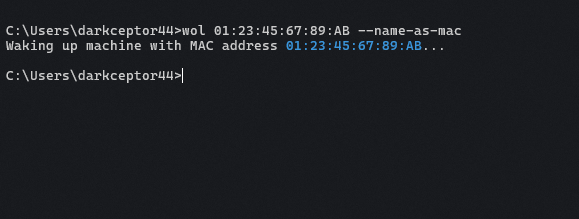
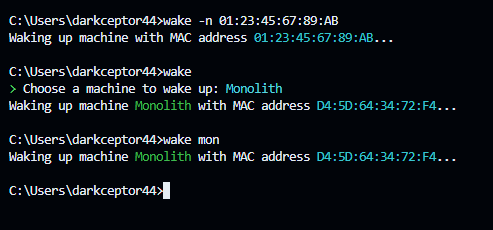
waker-cli: doc: update README and add rustdocs

diff --git a/waker-cli/src/main.rs b/waker-cli/src/main.rs
@@ -14,8 +14,95 @@
 // You should have received a copy of the GNU General Public License
 // along with this program. If not, see <http://www.gnu.org/licenses/>.
 
+//! # waker-cli
+//!
+//! A command-line application for sending Wake-on-LAN (WoL) magic packets over the network. It can be used to wake up a machine by its MAC address or by its alias, you can add machines through the CLI and save them to a config file, that way you don't have to memorize their MAC addresses.
+//!
+//! ## Installation
+//!
+//! You can install the application from:
+//!
+//! * Manually (after cloning the repo locally): `cargo install --path .`
+//!
+//! ## Usage
+//!
+//! ```bash
+//! $ wake --help
+//! Wake-On-LAN command line interface for Rust
+//!
+//! Usage: wake [OPTIONS] [NAME] [COMMAND]
+//!
+//! Commands:
+//!   add   Add machine to the config file
+//!   help  Print this message or the help of the given subcommand(s)
+//!
+//! Arguments:
+//!   [NAME]  Name of the machine to wake up, if the `-n` option is specified then this is the MAC address to send the magic packet to (must be in format `xx:xx:xx:xx:xx:xx`)
+//!
+//! Options:
+//!   -n, --name-as-mac              This tells the CLI to use the name as the MAC address to send the magic packet to
+//!   -b, --bcast-addr <BCAST_ADDR>  The broadcast address to send the magic packet to (must be `IP:PORT` format) [default: 255.255.255.255:9]  
+//!   -B, --bind-addr <BIND_ADDR>    The address to bind the UDP socket to (must be `IP:PORT` format) [default: 0.0.0.0:0]
+//!   -h, --help                     Print help
+//!   -V, --version                  Print version
+//! ```
+//!
+//! ## Benchmarks
+//!
+//! The CLI was benchmarked using [Hyperfine](https://github.com/sharkdp/hyperfine). The profiles used were:
+//!
+//! * Release
+//!
+//! ```toml
+//! [profile.release]
+//! lto = true
+//! codegen-units = 1
+//! opt-level = 3
+//! strip = true
+//! ```
+//!
+//! * Fast
+//!
+//! ```toml
+//! [profile.fast]
+//! inherits = "release"
+//! lto = false
+//! ```
+//!
+//! ### Windows
+//!
+//! * AMD64, 32GB RAM, Ryzen 7 3800X, Windows 10
+//!
+//! | Command | Mean [ms] | Min [ms] | Max [ms] | Relative |
+//! | ------- | --------- | -------- | -------- | -------- |
+//! | `wol 01:23:45:67:89:AB` ([swsnr/wol](https://crates.io/crates/wol) v0.3.1 + release) | 10.3 ± 0.7 | 9.1 | 13.0 | 1.00 |
+//! | `wol-rs 01:23:45:67:89:AB` ([fengyc/wol-rs](https://crates.io/crates/wol-rs) v1.1.0 + release) | 10.8 ± 1.5 | 9.5 | 27.9 | 1.05 ± 0.16 |
+//! | `wake -n 01:23:45:67:89:AB` (v0.1.0 + fast) | 16.3 ± 0.9 | 14.7 | 21.0 | 1.57 ± 0.13 |
+//! | `wake -n 01:23:45:67:89:AB` (v0.1.0 + release) | 16.3 ± 1.3 | 14.5 | 22.9 | 1.58 ± 0.16 |
+//!
+//! ### Linux
+//!
+//! * ARM64, 1GB RAM, Orange Pi Zero2, Debian 12
+//!
+//! | Command | Mean [ms] | Min [ms] | Max [ms] | Relative |
+//! | ------- | --------- | -------- | -------- | -------- |
+//! | `wol 01:23:45:67:89:AB` ([swsnr/wol](https://crates.io/crates/wol) v0.3.1 + release) | 2.3 ± 0.2 | 2.0 | 3.5 | 1.00 |
+//! | `wake -n 01:23:45:67:89:AB` (v0.1.0 + release) | 2.6 ± 0.2 | 2.2 | 3.3 | 1.12 ± 0.12 |
+//! | `wake -n 01:23:45:67:89:AB` (v0.1.0 + fast) | 3.0 ± 0.2 | 2.6 | 4.5 | 1.30 ± 0.14 |
+//! | `wol-rs 01:23:45:67:89:AB` ([fengyc/wol-rs](https://crates.io/crates/wol-rs) v1.1.0 + release) | 3.5 ± 0.2 | 3.2 | 4.2 | 1.55 ± 0.15 |
+//! | `wakeonlan 01:23:45:67:89:AB` ([jpoliv/wakeonlan](https://github.com/jpoliv/wakeonlan) v0.41-12.1) | 92.2 ± 6.0 | 89.9 | 124.2 | 40.31 ± 4.26 |
+//!
+//! ## MSRV
+//!
+//! The Minimum Supported Rust Version (MSRV) for `waker-cli` is **1.80**.
+//!
+//! ## License
+//!
+//! This project is licensed under the [GNU General Public License v3.0](https://www.gnu.org/licenses/gpl-3.0.en.html).
+
 #![forbid(unsafe_code)]
 #![warn(clippy::pedantic)]
+#![allow(clippy::doc_markdown)]
 
 mod types;
 mod utils;

diff --git a/waker-cli/README.md b/waker-cli/README.md
@@ -17,10 +17,10 @@ The Minimum Supported Rust Version (MSRV) for `waker-cli` is **1.80**.
 ![cli1](./assets/cli1.png)
 
 ```bash
-$ waker --help
+$ wake --help
 Wake-On-LAN command line interface for Rust
 
-Usage: waker [OPTIONS] [NAME] [COMMAND]
+Usage: wake [OPTIONS] [NAME] [COMMAND]
 
 Commands:
   add   Add machine to the config file
@@ -30,10 +30,11 @@ Arguments:
   [NAME]  Name of the machine to wake up, if the `-n` option is specified then this is the MAC address to send the magic packet to (must be in format `xx:xx:xx:xx:xx:xx`)
 
 Options:
-  -n, --name-as-mac            This tells the CLI to use the name as the MAC address to send the magic packet to
-  -b, --broadcast_addr <ADDR>  The broadcast address to send the magic packet to (must be `IP:PORT` format) [default: 255.255.255.255:9]    
-  -h, --help                   Print help
-  -V, --version                Print version
+  -n, --name-as-mac              This tells the CLI to use the name as the MAC address to send the magic packet to
+  -b, --bcast-addr <BCAST_ADDR>  The broadcast address to send the magic packet to (must be `IP:PORT` format) [default: 255.255.255.255:9]  
+  -B, --bind-addr <BIND_ADDR>    The address to bind the UDP socket to (must be `IP:PORT` format) [default: 0.0.0.0:0]
+  -h, --help                     Print help
+  -V, --version                  Print version
 ```
 
 ## Benchmarks
@@ -64,9 +65,10 @@ lto = false
 
 | Command | Mean [ms] | Min [ms] | Max [ms] | Relative |
 | ------- | --------- | -------- | -------- | -------- |
-| `wol 01:23:45:67:89:AB` ([swsnr/wol](https://crates.io/crates/wol) v0.3.1 + release) | 10.4 ± 3.1 | 8.9 | 47.8 | 1.00 |
-| **`wol 01:23:45:67:89:AB -n` (v0.1.0 + release)** | 15.8 ± 1.4 | 14.4 | 29.3 | 1.53 ± 0.47 |
-| **`wol 01:23:45:67:89:AB -n` (v0.1.0 + fast)** | 16.2 ± 1.9 | 14.6 | 27.6 | 1.56 ± 0.50 |
+| `wol 01:23:45:67:89:AB` ([swsnr/wol](https://crates.io/crates/wol) v0.3.1 + release) | 10.3 ± 0.7 | 9.1 | 13.0 | 1.00 |
+| `wol-rs 01:23:45:67:89:AB` ([fengyc/wol-rs](https://crates.io/crates/wol-rs) v1.1.0 + release) | 10.8 ± 1.5 | 9.5 | 27.9 | 1.05 ± 0.16 |
+| `wake -n 01:23:45:67:89:AB` (v0.1.0 + fast) | 16.3 ± 0.9 | 14.7 | 21.0 | 1.57 ± 0.13 |
+| `wake -n 01:23:45:67:89:AB` (v0.1.0 + release) | 16.3 ± 1.3 | 14.5 | 22.9 | 1.58 ± 0.16 |
 
 ### Linux
 
@@ -74,10 +76,11 @@ lto = false
 
 | Command | Mean [ms] | Min [ms] | Max [ms] | Relative |
 | ------- | --------- | -------- | -------- | -------- |
-| `wol 01:23:45:67:89:AB` ([swsnr/wol](https://crates.io/crates/wol) v0.3.1 + release) | 3.9 ± 0.2 | 3.6 | 4.5 | 1.00 |
-| **`wol 01:23:45:67:89:AB -n` (v0.1.0 + release)** | 4.1 ± 0.2 | 3.7 | 4.8 | 1.06 ± 0.06 |
-| **`wol 01:23:45:67:89:AB -n` (v0.1.0 + fast)** | 4.6 ± 0.3 | 4.2 | 9.0 | 1.17 ± 0.09 |
-| `waker 01:23:45:67:89:AB` ([jpoliv/wakeonlan](https://github.com/jpoliv/wakeonlan) v0.41-12.1) | 93.0 ± 0.8 | 92.0 | 94.7 | 23.78 ± 1.04 |
+| `wol 01:23:45:67:89:AB` ([swsnr/wol](https://crates.io/crates/wol) v0.3.1 + release) | 2.3 ± 0.2 | 2.0 | 3.5 | 1.00 |
+| `wake -n 01:23:45:67:89:AB` (v0.1.0 + release) | 2.6 ± 0.2 | 2.2 | 3.3 | 1.12 ± 0.12 |
+| `wake -n 01:23:45:67:89:AB` (v0.1.0 + fast) | 3.0 ± 0.2 | 2.6 | 4.5 | 1.30 ± 0.14 |
+| `wol-rs 01:23:45:67:89:AB` ([fengyc/wol-rs](https://crates.io/crates/wol-rs) v1.1.0 + release) | 3.5 ± 0.2 | 3.2 | 4.2 | 1.55 ± 0.15 |
+| `wakeonlan 01:23:45:67:89:AB` ([jpoliv/wakeonlan](https://github.com/jpoliv/wakeonlan) v0.41-12.1) | 92.2 ± 6.0 | 89.9 | 124.2 | 40.31 ± 4.26 |
 
 ## License
 
